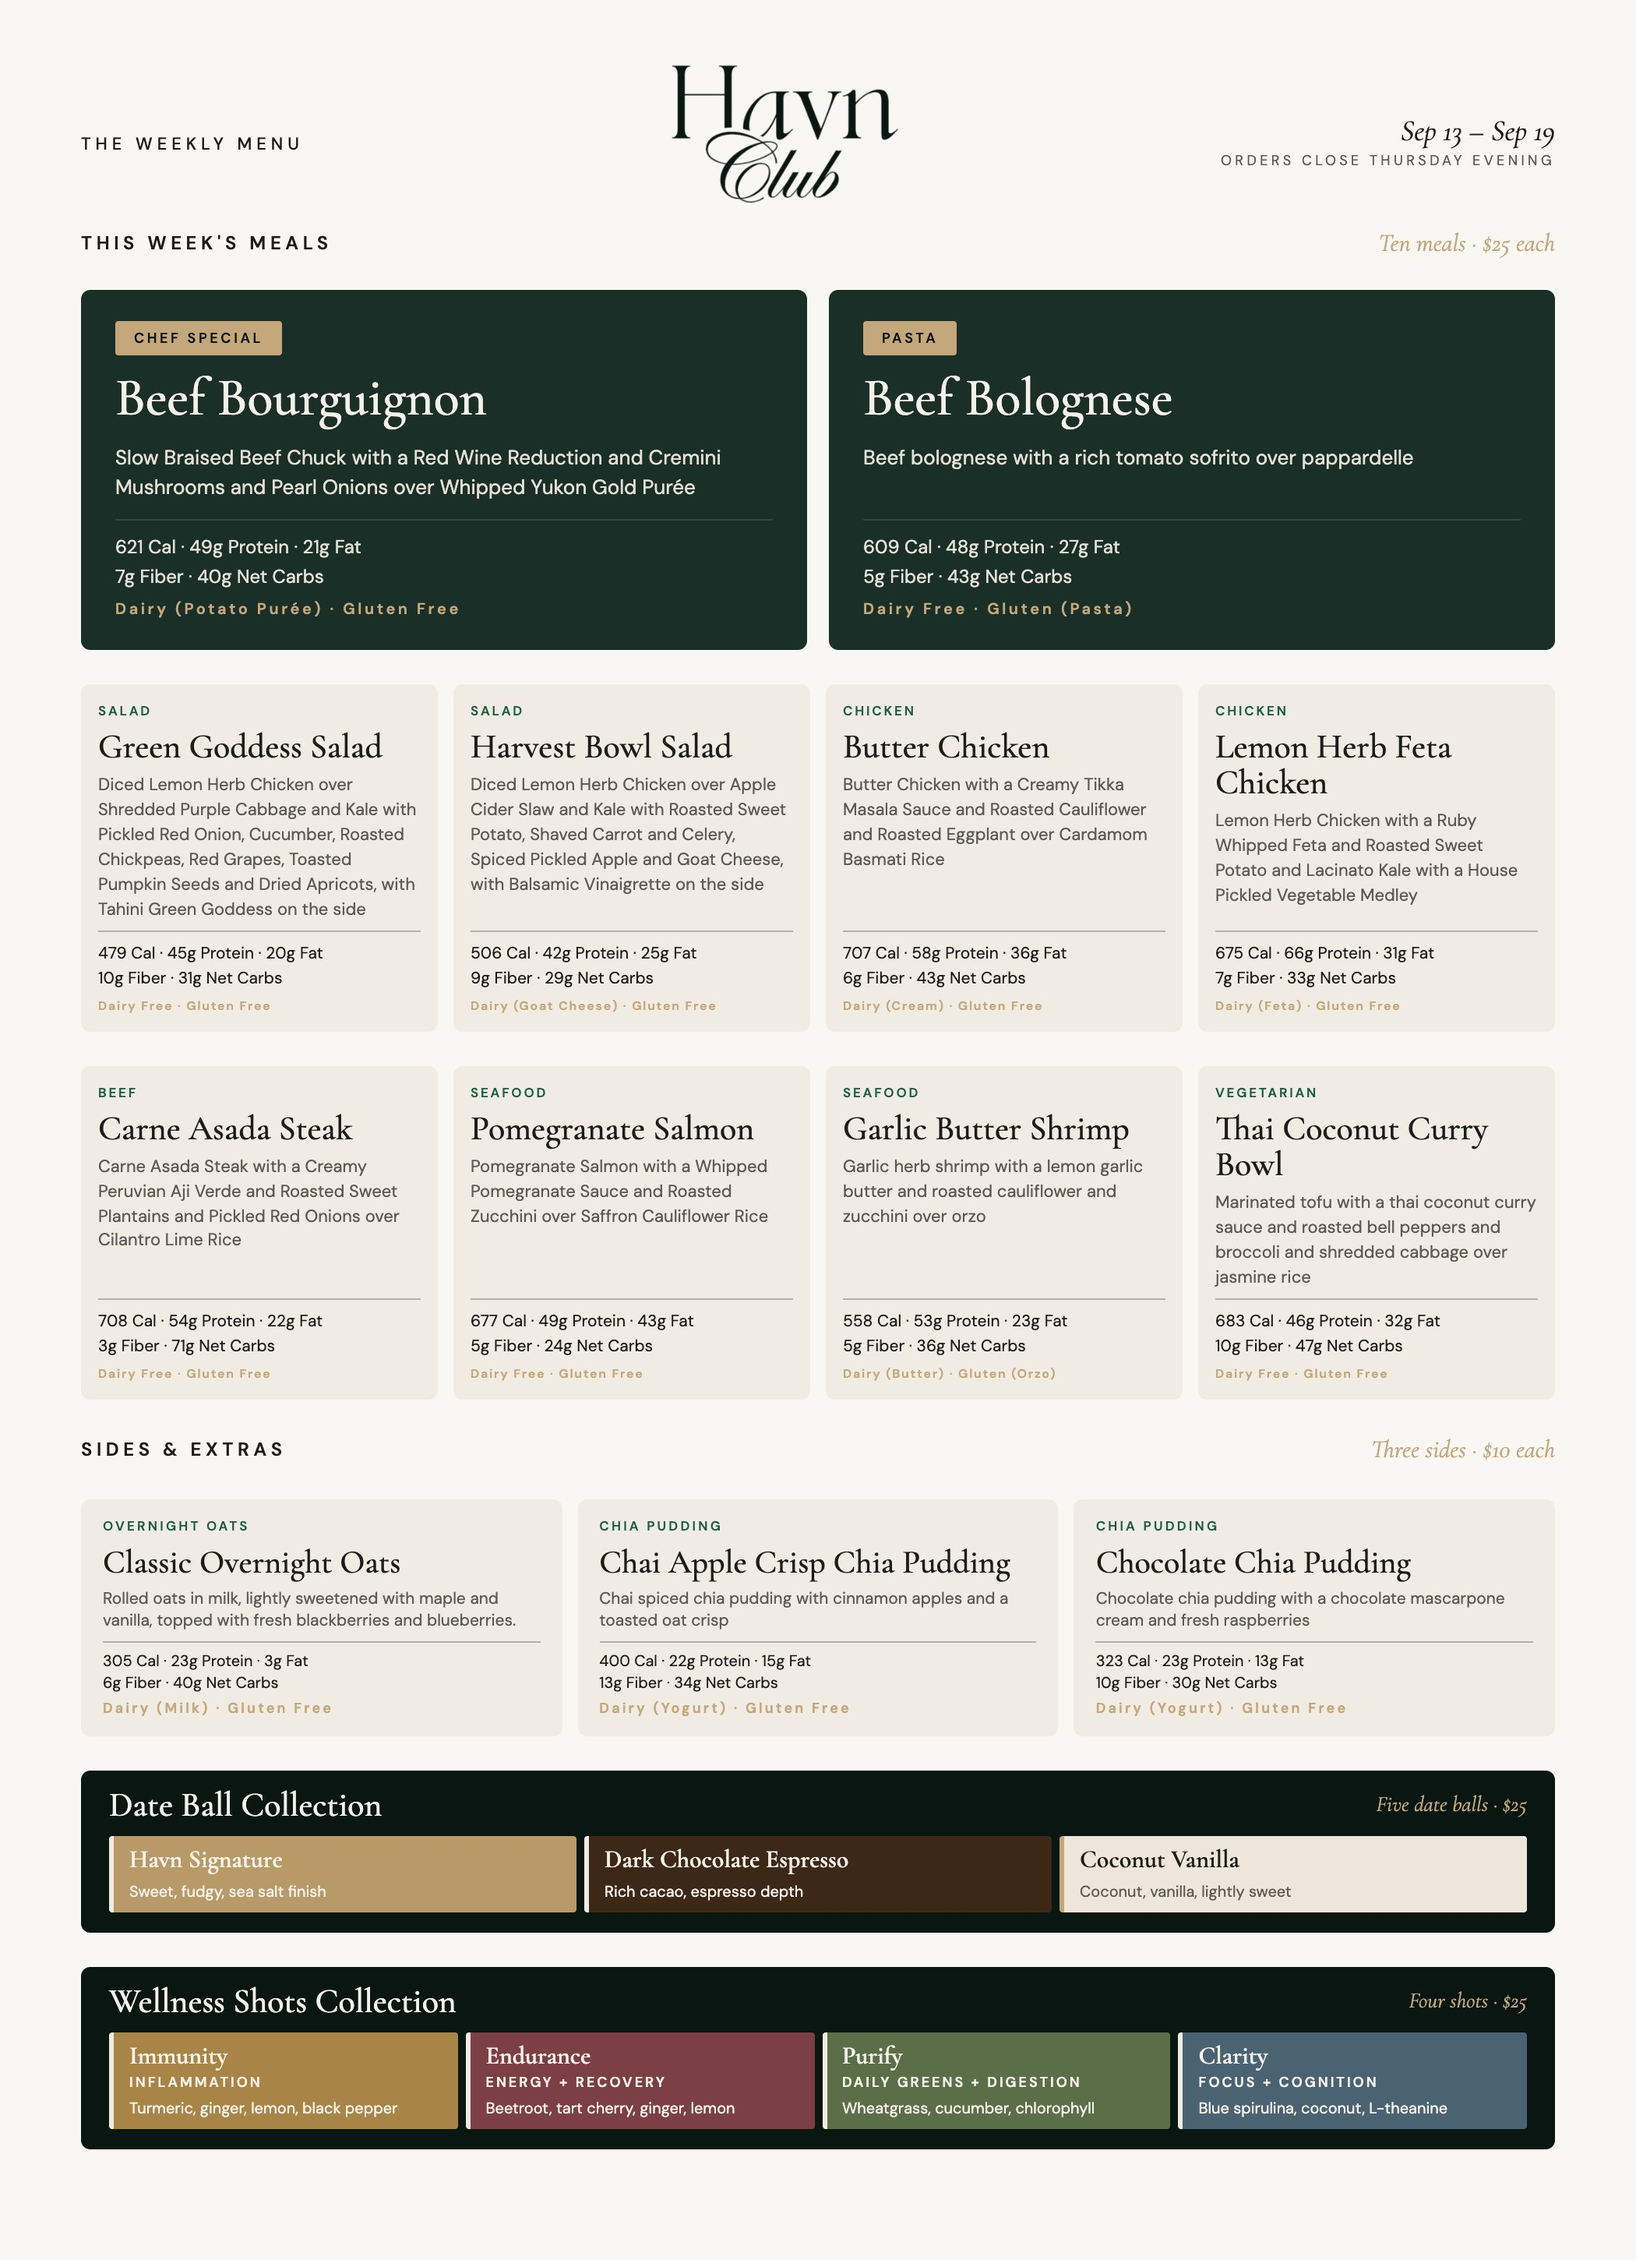
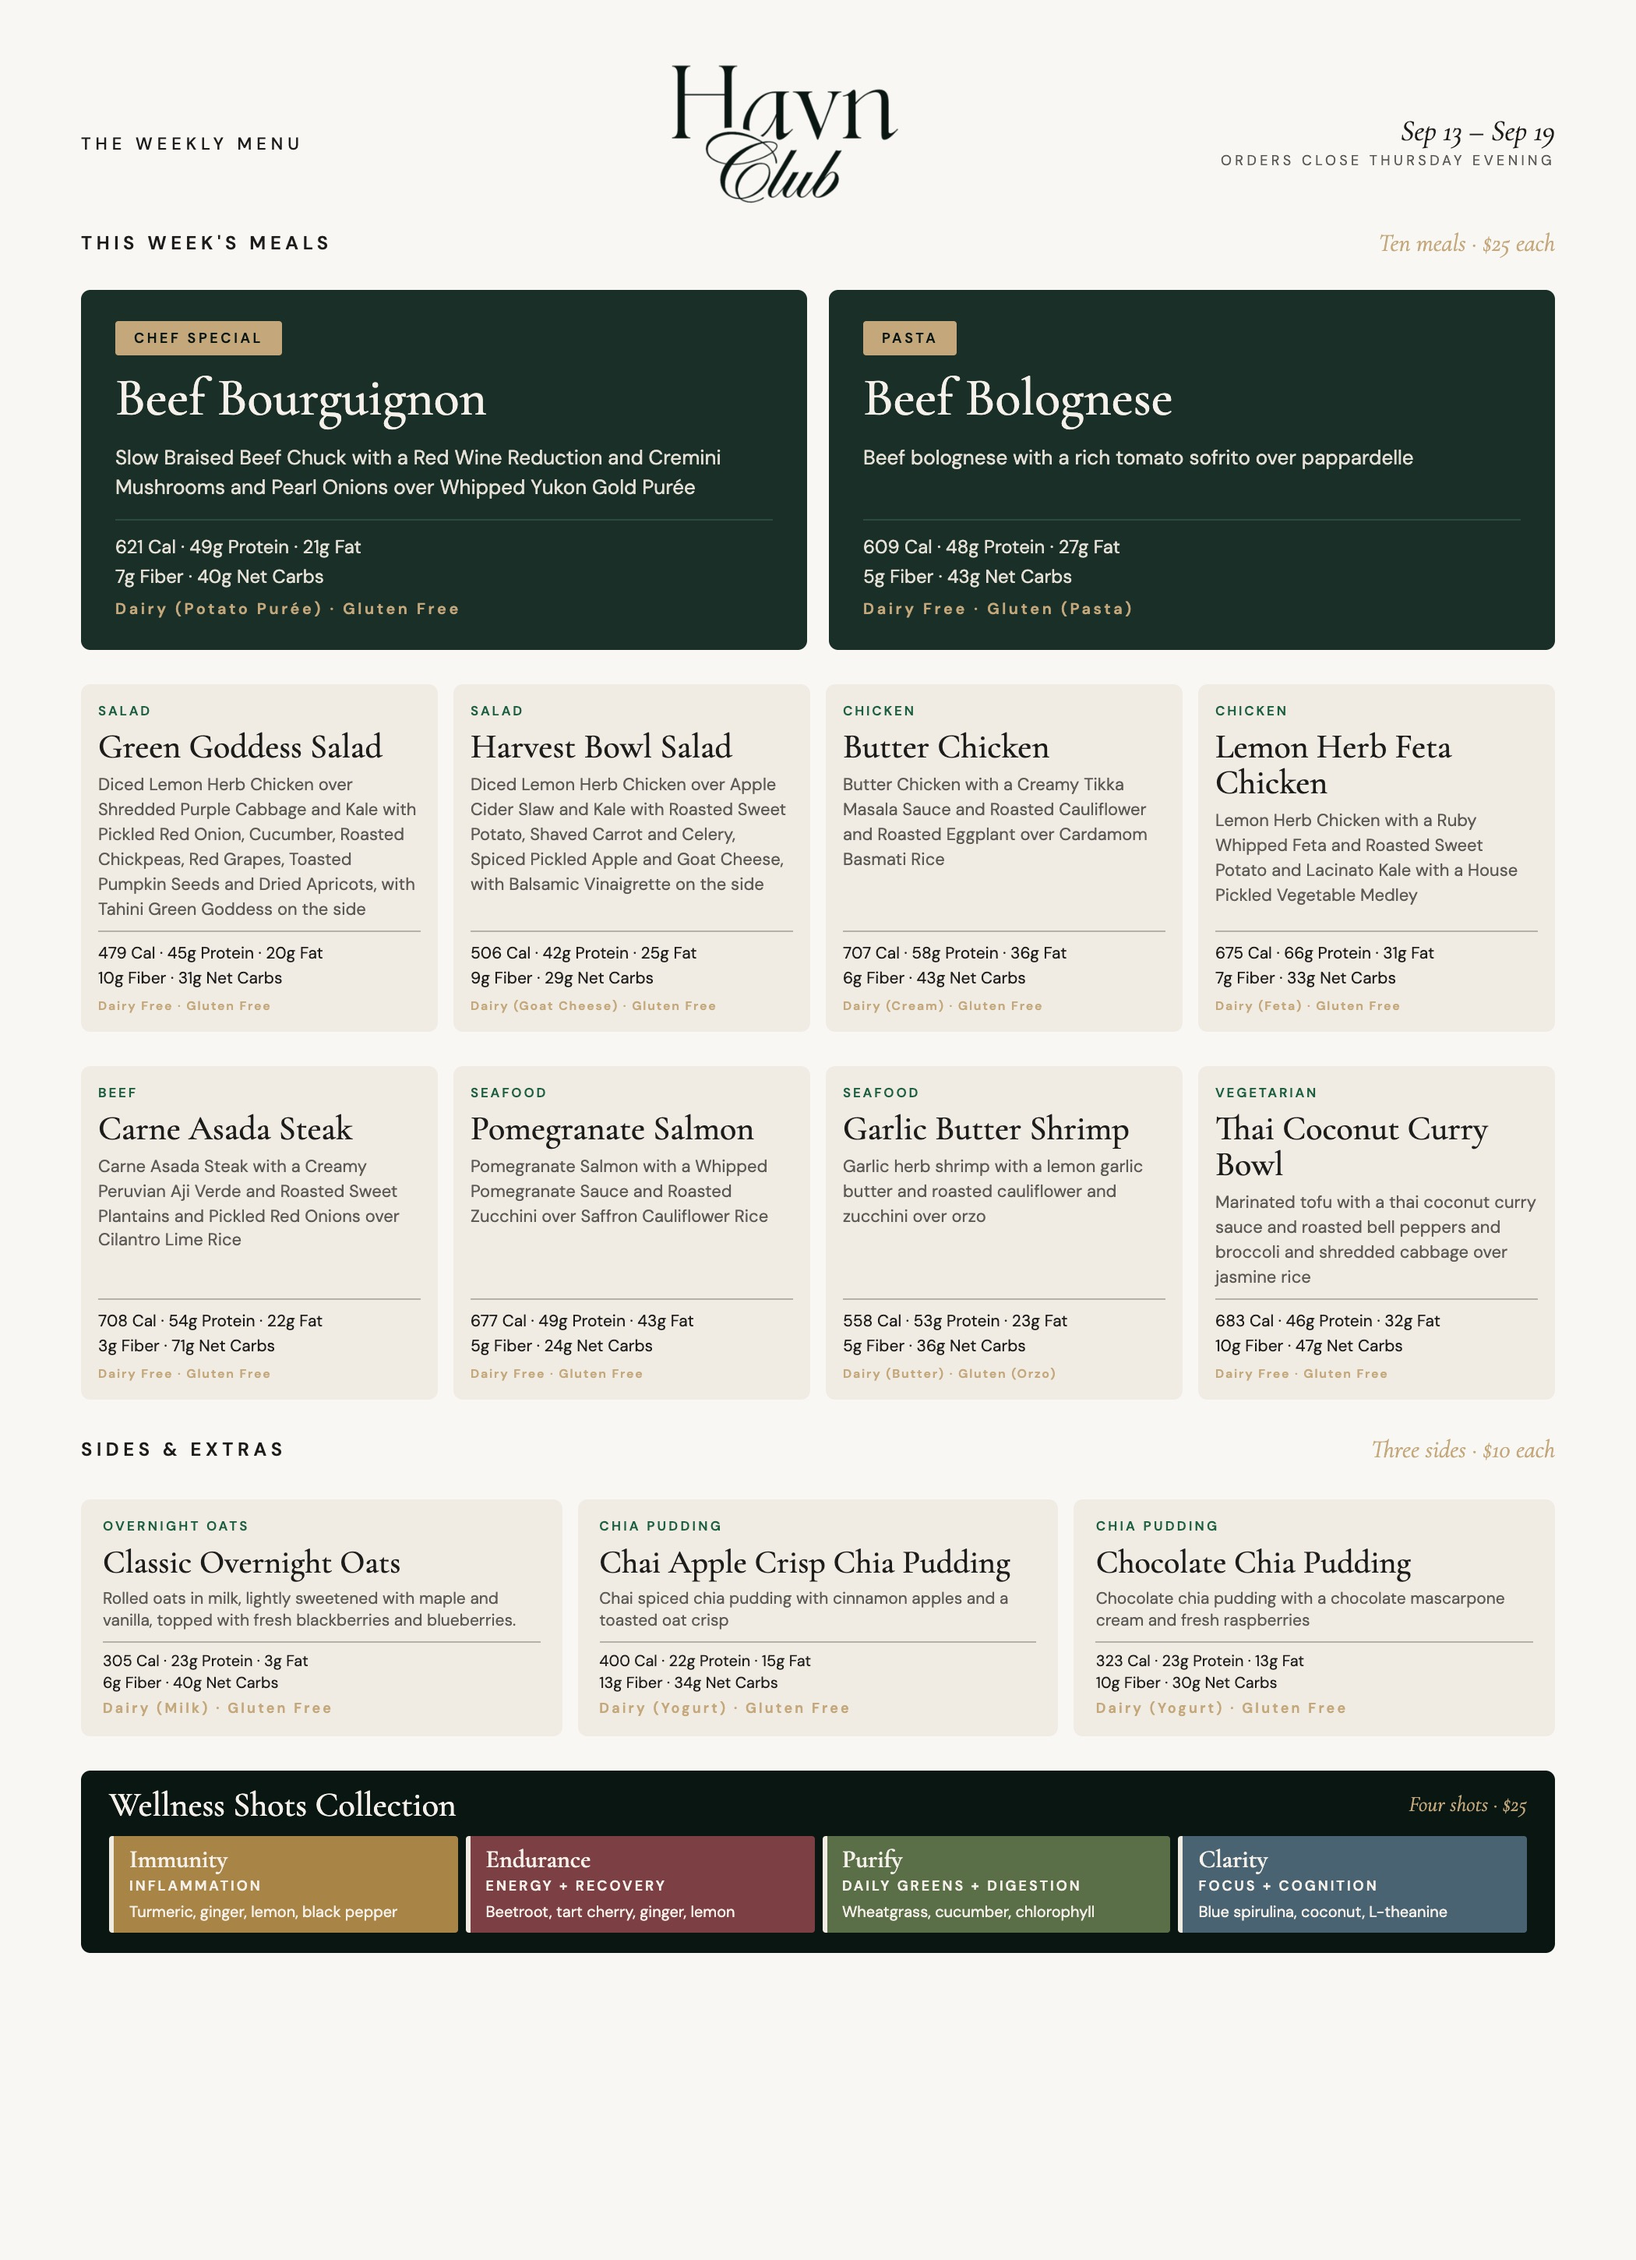
deploy(menu): sep13 atomic menu release
Automated weekly push of menu.js/index.html + preview + approved dish photos + the byte-correlated acquisition manifest so every customer-facing menu asset serves THIS week. Verified live before exit.

Changed region(s): [[0.031, 0.7759, 0.9595, 0.9621]]

diff --git a/acquisition-manifest.js b/acquisition-manifest.js
@@ -1,11 +1,11 @@
-/* acquisition-manifest.json sha256=18f27923ed6a1a5f3754a155c87bfd1ac958fb4a03ea051f6bcd320ea59483b2 */
+/* acquisition-manifest.json sha256=086339962311e2be90da5fe3febe8fa98d18648e0e415098e9fbca798c9edaf4 */
 window.HAVN_ACQUISITION_MANIFEST =
 {
   "schemaVersion": 1,
[2 lines of base64/hex data omitted]
   "menu": {
     "id": "delivery-2026-09-13",
-    "version": "sha256-33c19ea6f359c0b679e06b8a4fe2ce525f3d73dff78bd295fbac23fb4297955a",
+    "version": "sha256-e12cd10ff5160ae882b5b2af192d844d3fca3bf8fe19035a26264018e3f56e7f",
     "weekLabel": "September 13",
     "pricingPolicyId": "backend-25-10-v1",
     "offerPolicyId": "welcome-20-40-v1",
@@ -104,7 +104,7 @@ window.HAVN_ACQUISITION_MANIFEST =
           "Dairy-free"
         ],
         "image": {
-          "url": "/assets/releases/sha256-33c19ea6f359c0b679e06b8a4fe2ce525f3d73dff78bd295fbac23fb4297955a/cheat.jpg",
+          "url": "/assets/releases/sha256-e12cd10ff5160ae882b5b2af192d844d3fca3bf8fe19035a26264018e3f56e7f/cheat.jpg",
           "width": 654,
           "height": 900,
           "format": "jpeg",
@@ -142,7 +142,7 @@ window.HAVN_ACQUISITION_MANIFEST =
           "Dairy-free"
         ],
         "image": {
-          "url": "/assets/releases/sha256-33c19ea6f359c0b679e06b8a4fe2ce525f3d73dff78bd295fbac23fb4297955a/chicken.jpg",
+          "url": "/assets/releases/sha256-e12cd10ff5160ae882b5b2af192d844d3fca3bf8fe19035a26264018e3f56e7f/chicken.jpg",
           "width": 654,
           "height": 900,
           "format": "jpeg",
@@ -180,7 +180,7 @@ window.HAVN_ACQUISITION_MANIFEST =
           "Dairy-free"
         ],
         "image": {
-          "url": "/assets/releases/sha256-33c19ea6f359c0b679e06b8a4fe2ce525f3d73dff78bd295fbac23fb4297955a/chicken_2.jpg",
+          "url": "/assets/releases/sha256-e12cd10ff5160ae882b5b2af192d844d3fca3bf8fe19035a26264018e3f56e7f/chicken_2.jpg",
           "width": 654,
           "height": 900,
           "format": "jpeg",
@@ -215,7 +215,7 @@ window.HAVN_ACQUISITION_MANIFEST =
           "Extra protein"
         ],
         "image": {
-          "url": "/assets/releases/sha256-33c19ea6f359c0b679e06b8a4fe2ce525f3d73dff78bd295fbac23fb4297955a/beef.jpg",
+          "url": "/assets/releases/sha256-e12cd10ff5160ae882b5b2af192d844d3fca3bf8fe19035a26264018e3f56e7f/beef.jpg",
           "width": 654,
           "height": 900,
           "format": "jpeg",
@@ -250,7 +250,7 @@ window.HAVN_ACQUISITION_MANIFEST =
           "Extra protein"
         ],
         "image": {
-          "url": "/assets/releases/sha256-33c19ea6f359c0b679e06b8a4fe2ce525f3d73dff78bd295fbac23fb4297955a/seafood.jpg",
+          "url": "/assets/releases/sha256-e12cd10ff5160ae882b5b2af192d844d3fca3bf8fe19035a26264018e3f56e7f/seafood.jpg",
           "width": 654,
           "height": 900,
           "format": "jpeg",
@@ -290,7 +290,7 @@ window.HAVN_ACQUISITION_MANIFEST =
           "Gluten-free"
         ],
         "image": {
-          "url": "/assets/releases/sha256-33c19ea6f359c0b679e06b8a4fe2ce525f3d73dff78bd295fbac23fb4297955a/seafood_2.jpg",
+          "url": "/assets/releases/sha256-e12cd10ff5160ae882b5b2af192d844d3fca3bf8fe19035a26264018e3f56e7f/seafood_2.jpg",
           "width": 654,
           "height": 900,
           "format": "jpeg",
@@ -328,7 +328,7 @@ window.HAVN_ACQUISITION_MANIFEST =
           "Gluten-free"
         ],
         "image": {
-          "url": "/assets/releases/sha256-33c19ea6f359c0b679e06b8a4fe2ce525f3d73dff78bd295fbac23fb4297955a/pasta.jpg",
+          "url": "/assets/releases/sha256-e12cd10ff5160ae882b5b2af192d844d3fca3bf8fe19035a26264018e3f56e7f/pasta.jpg",
           "width": 654,
           "height": 900,
           "format": "jpeg",
@@ -363,7 +363,7 @@ window.HAVN_ACQUISITION_MANIFEST =
           "Extra protein"
         ],
         "image": {
-          "url": "/assets/releases/sha256-33c19ea6f359c0b679e06b8a4fe2ce525f3d73dff78bd295fbac23fb4297955a/vegetarian.jpg",
+          "url": "/assets/releases/sha256-e12cd10ff5160ae882b5b2af192d844d3fca3bf8fe19035a26264018e3f56e7f/vegetarian.jpg",
           "width": 654,
           "height": 900,
           "format": "jpeg",
@@ -399,7 +399,7 @@ window.HAVN_ACQUISITION_MANIFEST =
           "Extra protein"
         ],
         "image": {
-          "url": "/assets/releases/sha256-33c19ea6f359c0b679e06b8a4fe2ce525f3d73dff78bd295fbac23fb4297955a/salad.jpg",
+          "url": "/assets/releases/sha256-e12cd10ff5160ae882b5b2af192d844d3fca3bf8fe19035a26264018e3f56e7f/salad.jpg",
           "width": 720,
           "height": 900,
           "format": "jpeg",
@@ -438,7 +438,7 @@ window.HAVN_ACQUISITION_MANIFEST =
           "Dairy-free"
         ],
         "image": {
-          "url": "/assets/releases/sha256-33c19ea6f359c0b679e06b8a4fe2ce525f3d73dff78bd295fbac23fb4297955a/salad_2.jpg",
+          "url": "/assets/releases/sha256-e12cd10ff5160ae882b5b2af192d844d3fca3bf8fe19035a26264018e3f56e7f/salad_2.jpg",
           "width": 720,
           "height": 900,
           "format": "jpeg",
@@ -570,39 +570,6 @@ window.HAVN_ACQUISITION_MANIFEST =
           [
             "Clarity",
             "Blue spirulina, lemon, L-theanine, honey"
-          ]
-        ]
-      },
-      {
-        "id": "date_balls",
-        "type": "addon",
-        "category": "Wellness",
-        "menuSection": "Wellness",
-        "name": "Date Ball Collection",
-        "priceCents": 2500,
-        "description": "Five date balls across three flavors, sweet, fudgy, and made to disappear.",
-        "macros": null,
-        "diet": [
-          "Dairy Free",
-          "Gluten Free"
-        ],
-        "allergens": [],
-        "featured": false,
-        "customizations": [],
-        "collectionLabel": "Five date balls",
-        "note": "Sweet, fudgy, and made to disappear.",
-        "flavors": [
-          [
-            "Havn Signature",
-            "Sweet, fudgy, sea salt finish"
-          ],
-          [
-            "Dark Chocolate Espresso",
-            "Rich cacao, espresso depth"
-          ],
-          [
-            "Coconut Vanilla",
-            "Coconut, vanilla, lightly sweet"
           ]
         ]
       }

diff --git a/menu.js b/menu.js
@@ -159,20 +159,13 @@
             ["Purify", "Wheatgrass, cucumber, chlorophyll, mint"],
             ["Clarity", "Blue spirulina, lemon, L-theanine, honey"]
           ]
-        },
-        {
-          id: "date_balls", name: "Date Ball Collection", tag: "Five date balls", addon: true,
-          desc: "Five date balls across three flavors, sweet, fudgy, and made to disappear.",
-          note: "Sweet, fudgy, and made to disappear.",
-          flavors: [
-            ["Havn Signature", "Sweet, fudgy, sea salt finish"],
-            ["Dark Chocolate Espresso", "Rich cacao, espresso depth"],
-            ["Coconut Vanilla", "Coconut, vanilla, lightly sweet"]
-          ]
         }
       ]
     }
   ];
+  /* This week: the second-timer bundle offer uses Wellness Shots. */
+  if (MODE === "db") { MODE = "ws"; window.HAVN_MENU_MODE = MODE; }
+
   /* ── END GENERATED: SECTIONS ─────────────────────────────────── */
 
   function indexItems(sections) {
